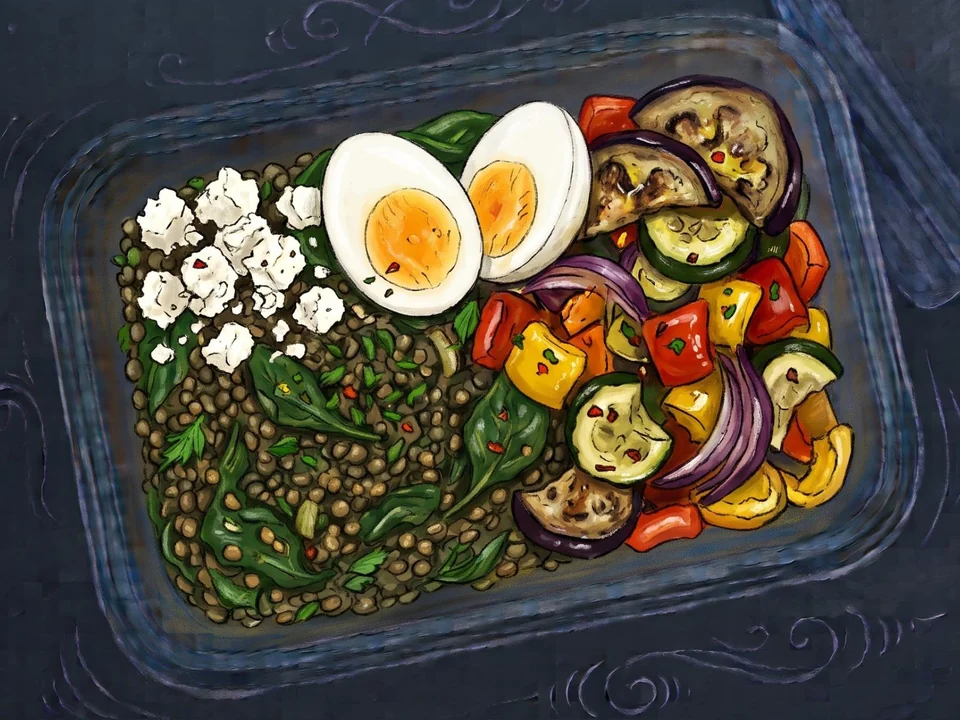
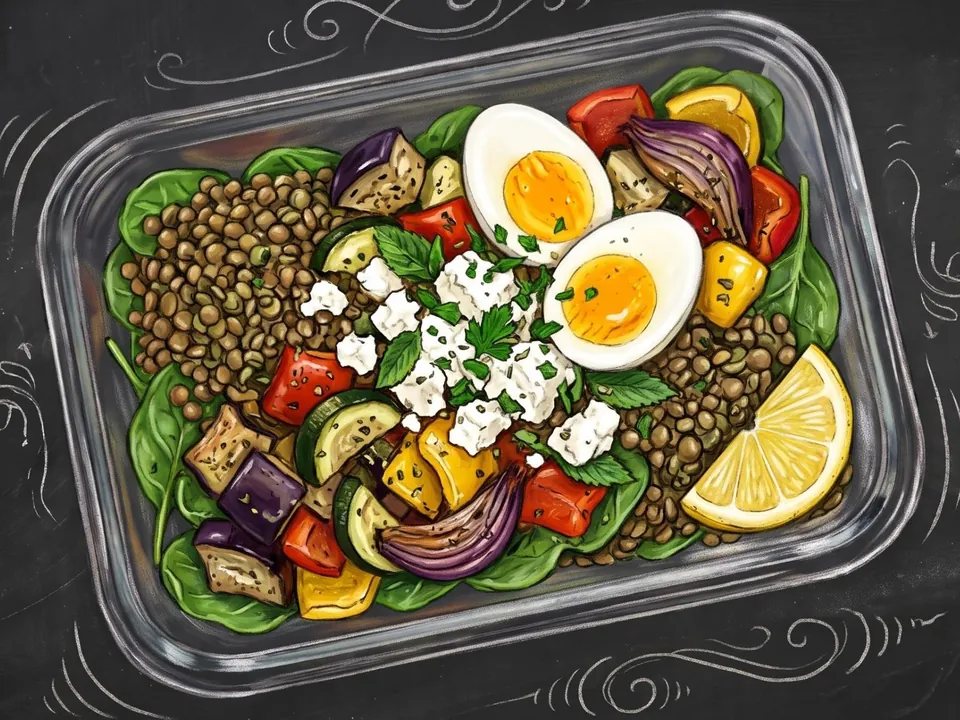
New pictures for shakshuka, lentil salad and frittata
Hamzash regenerated these three dishes; they replace the older,
lower-quality drawings, cropped and sized like the rest.

Claude-Session: https://claude.ai/code/session_01AJVLnJHPLumpGgjAsqfr1e

diff --git a/sw.js b/sw.js
@@ -4,7 +4,7 @@
 // and an unchanged one never is. In the installed app the page asks for all of them once ('warm').
 // Every file is checked against the hash it should have before it is kept, so a copy that is still
 // stale somewhere on the way (a cache, the CDN right after a change) is never stored as the new one.
-const VERSION = 'a37ac655b315';
+const VERSION = 'cddc38a0e27a';
 const CORE = {
 "index.html": "57bac551f6",
 "data.js": "ec85c75705",
@@ -59,7 +59,7 @@ const IMGS = {
 "img/lemon-dill-salmon-potatoes.webp": "f0d38882c4",
 "img/lemon-herb-chicken-quinoa.webp": "fd066bb525",
 "img/lemony-tuna-pasta-salad.webp": "09343bec30",
-"img/lentil-roasted-vegetable-salad.webp": "9a12ce1855",
+"img/lentil-roasted-vegetable-salad.webp": "3189d777f7",
 "img/mediterranean-salmon-traybake.webp": "94bbfe6e2a",
 "img/mezze-protein-box.webp": "65b74b923f",
 "img/peri-peri-chicken-rice.webp": "4f60f25733",
@@ -95,7 +95,7 @@ const IMGS = {
 "img/sauce-toum.webp": "e4bc3588c9",
 "img/sesame-ginger-chicken-noodles.webp": "c1a67a2460",
 "img/sesame-tuna-soba-salad.webp": "afb40ad810",
-"img/shakshuka.webp": "a2ab50e26b",
+"img/shakshuka.webp": "4ff6e6bed4",
 "img/shawarma-chicken-bowl.webp": "6a41ffe174",
 "img/shish-tawook.webp": "5ab19996fb",
 "img/soy-ginger-glazed-chicken.webp": "ade5221722",
@@ -110,7 +110,7 @@ const IMGS = {
 "img/tuna-sweet-potato-cakes.webp": "f4018d3d87",
 "img/tuna-white-bean-salad.webp": "0326d065c5",
 "img/turkey-taco-lettuce-cups.webp": "5d289e8ba3",
-"img/vegetable-frittata-squares.webp": "9f2b01d1ae",
+"img/vegetable-frittata-squares.webp": "c128660f81",
 "img/zaatar-chicken-cauliflower.webp": "a171c456ad"
 };
 const CORE_CACHE = 'prepbook-core-' + VERSION;
